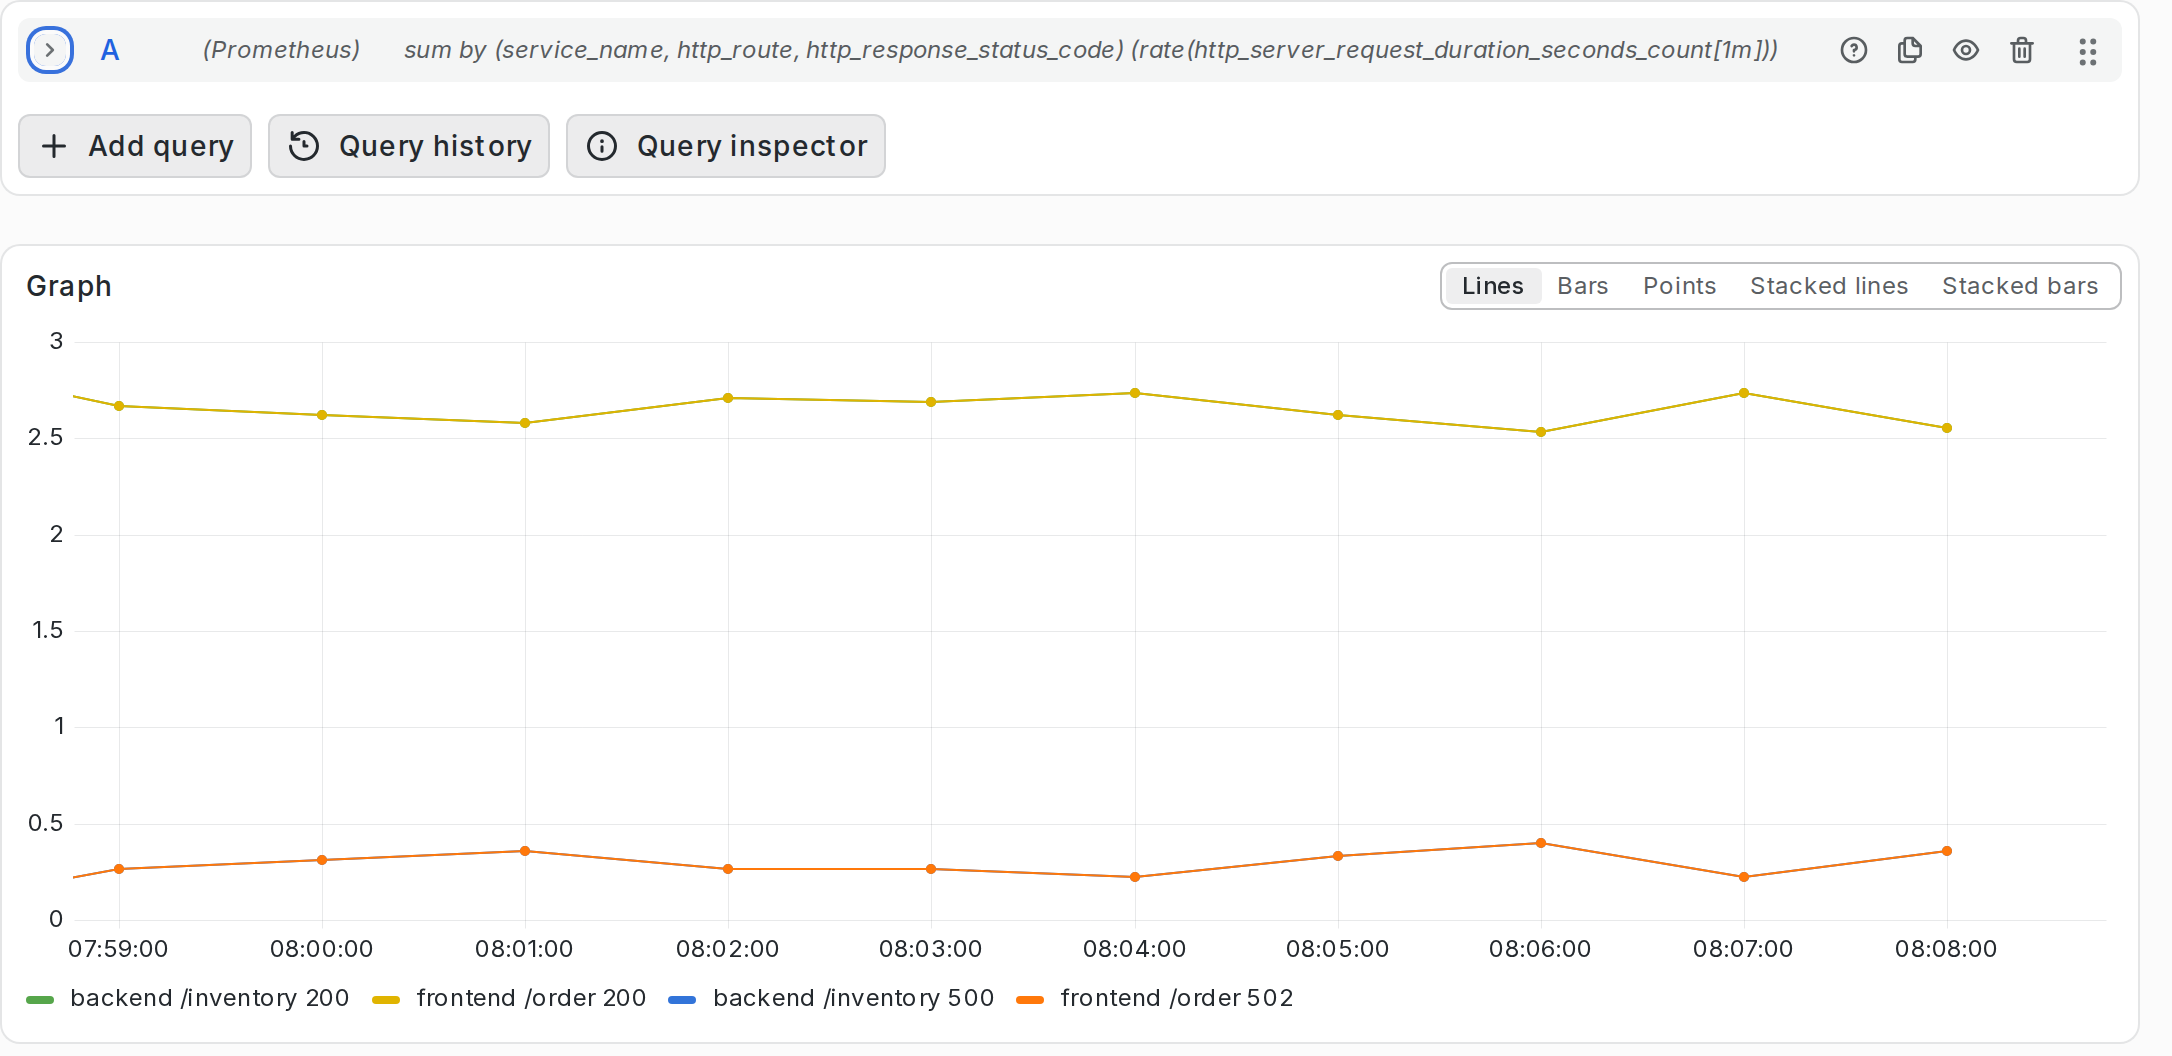
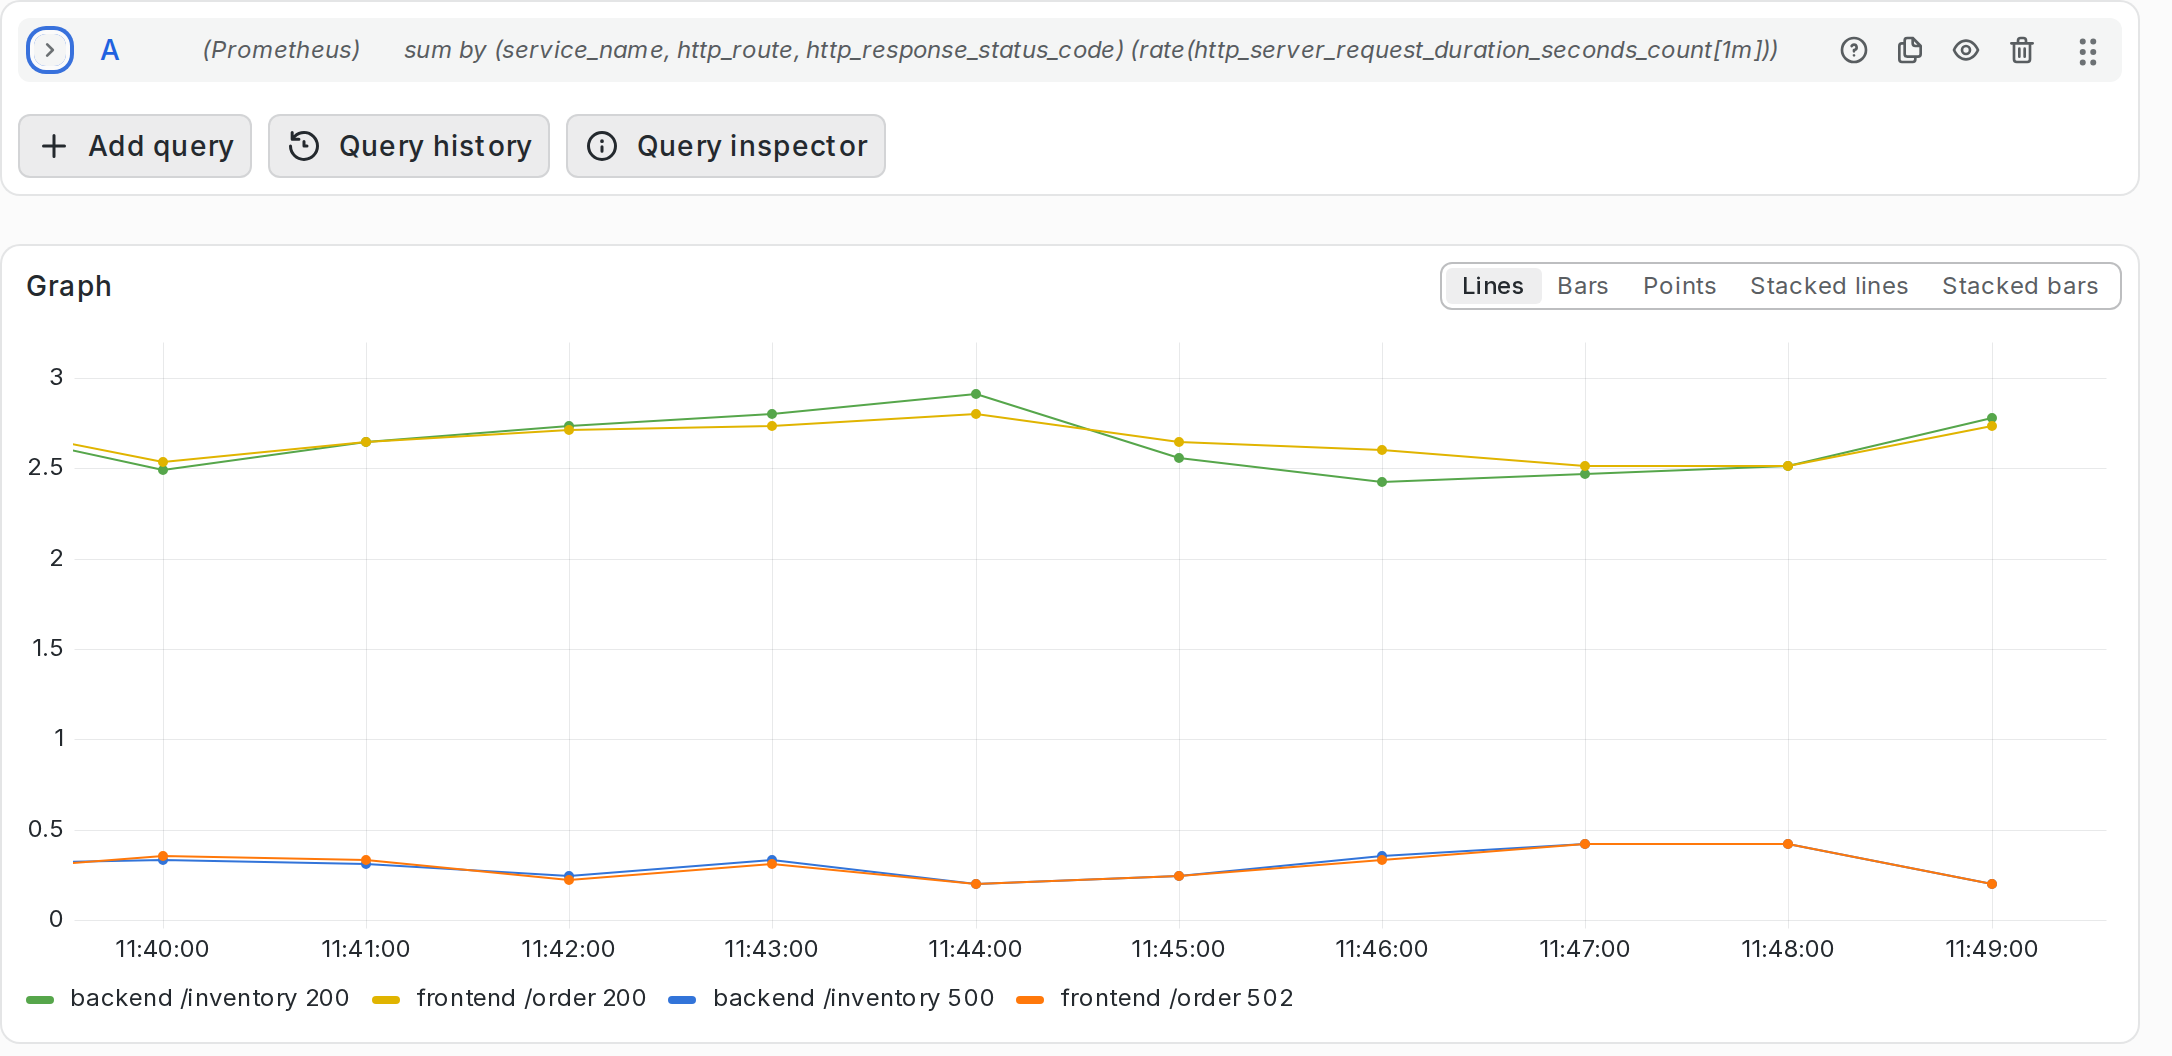
change(go-ebpf-primer): 9章のビルドをChainguardイメージに変え、記述の誤りを修正
ビルドを cgr.dev/chainguard/go:latest（Go 1.27.1）、実行を
cgr.dev/chainguard/static:latest に変更した。バイナリが変わるので、
起動ログ、curlのレスポンス、トレースプリンタの3行、スクリーンショット
4枚をすべて採り直している。

実機で確かめた結果、記述の誤りが見つかったので直した。

- 対象グロブの説明が誤っていた。OBIは gobwas/glob をセパレータなしで
  コンパイルするので `*` は空文字列に一致し、`*/frontend` は `/frontend`
  に一致する。実際に効かなかったのはカンマ区切りで2つ書いたほうで、
  1つのパターンとして扱われるため何にも一致していなかった
- スパン属性の出どころを「どれも http.Request から」と一括りにしていた。
  ステータスコードはレスポンス側、アドレスとポートは接続から取る
- メトリクスの送信間隔の説明が、本章のcomposeの設定と食い違っていた
- ログでは3スパン、Grafanaでは7スパンという勘定の飛びを補った
- クライアントとサーバーのスパンの差を「通信にかかった時間」と断定していた
- Dockerfileで置き換える箇所の数、セマンティック規約とPrometheus形式の
  名前の関係、設定名 TRACE_PRINTER の略記

文章は japanese-tech-writing の規範で通しで推敲した。長い段落を
一段落一トピックに割り、見出しから「見る」の重複を外し、章内で
一度も張っていなかった出典リンクを6本足している。

diff --git a/books/go-ebpf-primer/00-introduction.md b/books/go-ebpf-primer/00-introduction.md
@@ -21,7 +21,7 @@ fatal error: unknown caller pc
 :::message
 本書の実行結果と引用は、次のバージョンで確かめたものです。
 
-- Go 1.26.5（linux/amd64）
+- Go 1.26.5（linux/amd64）。9章のビルドだけ `cgr.dev/chainguard/go:latest`（Go 1.27.1）
 - OBI v0.13.0（2026年9月4日リリース）
 - Linuxカーネル 7.0.0-31-generic（x86_64）
 - Docker 29.0.0、Docker Compose v2.40.3、grafana/otel-lgtm 0.32.1（9章のハンズオン）
